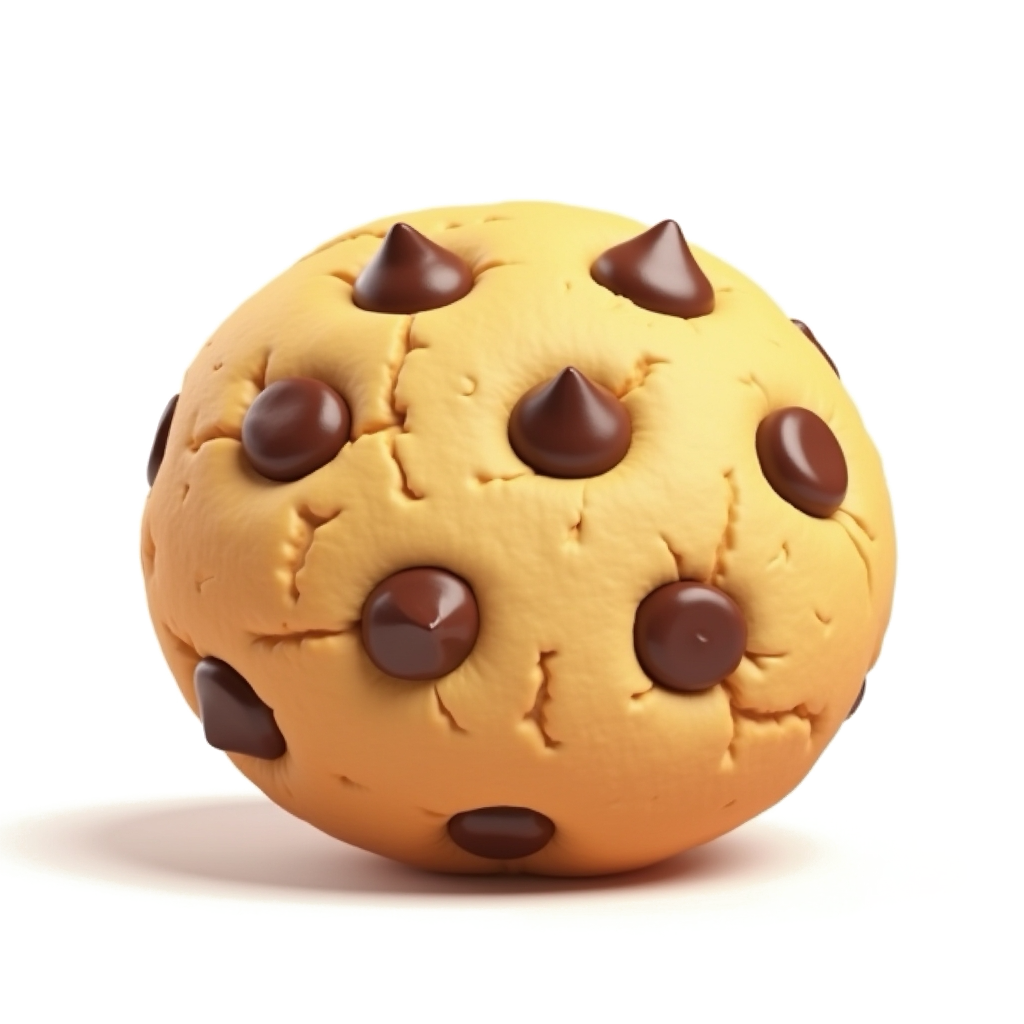
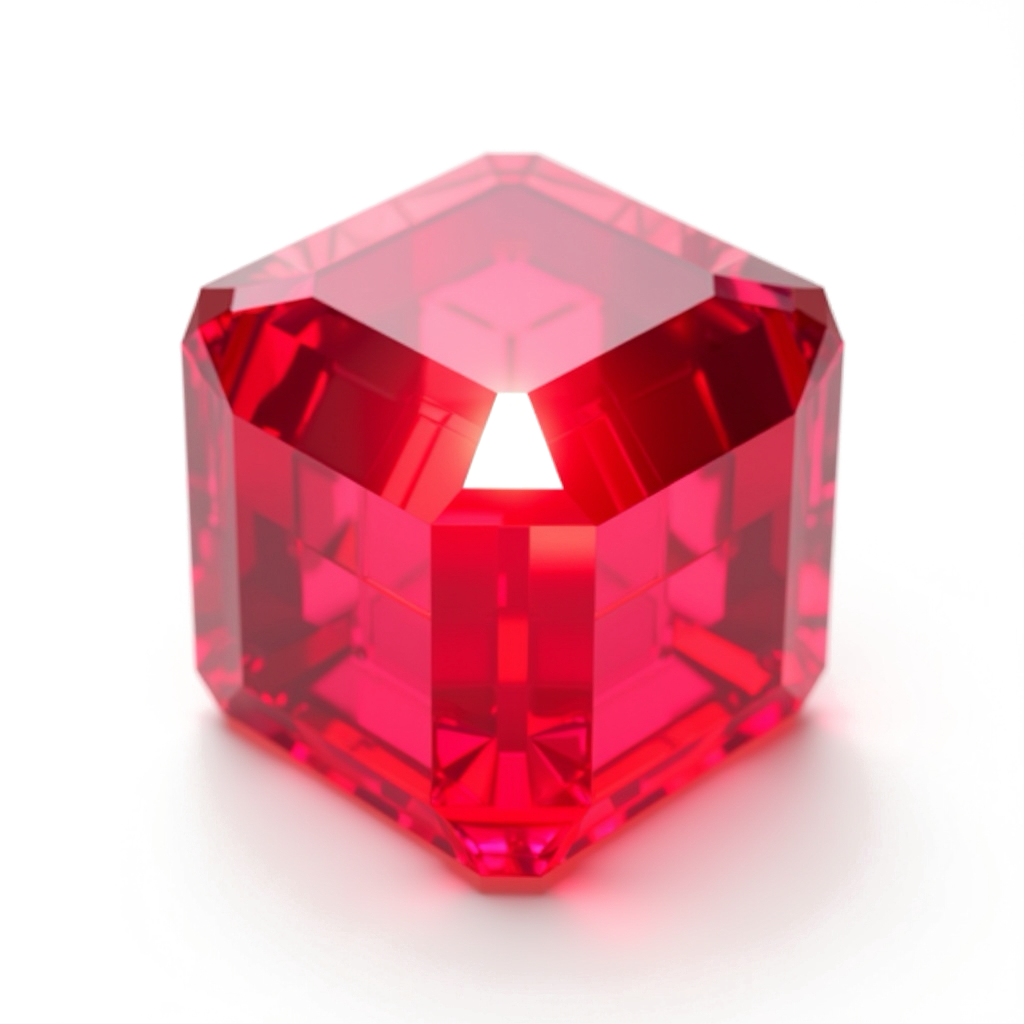
v0.3: Kristal Krallığı temasına geçiş
- Pastane teması kaldırıldı, kristal/mücevher dünyası geldi
- 6 yeni Leonardo AI kristal görseli:
  - 🍰 → Elmas (beyaz/şeffaf)
  - 🍪 → Yakut (kırmızı)
  - 🍓 → Zümrüt (yeşil)
  - 🍫 → Safir (mavi)
  - 🍦 → Ametist (mor)
  - 🍭 → Amber/Topaz (turuncu/altın)
- Hepsi kare şekil, 3D render, cam/cilalı malzeme
- Şeffaf arka plan (saf JS PNG şeffaflaştırıcı)
- Arka plan: derin mor-mavi-lacivert büyülü gradyan
- Tahta büyütüldü (640px max, ekranı neredeyse kaplıyor)
- Başlık: 'KRİSTAL KRALLIĞI' (parıltılı)
- Çerçeve: gümüş kenarlı mücevher kutusu görünümü
- Her kristal için kendi rengine özgü parıltı halkası
- Patlama parçacıkları kristal renkleriyle eşleşti
- Hedef metni Türkçeleşti: 'elmas topla' vs.
- Eski tatlı görselleri assets-yedek-tatlilar/ klasörüne yedeklendi

diff --git a/index.html b/index.html
@@ -3,7 +3,7 @@
 <head>
   <meta charset="UTF-8" />
   <meta name="viewport" content="width=device-width, initial-scale=1.0, user-scalable=no" />
-  <title>🍰 Pasta Şefi'nin Yükselişi</title>
+  <title>💎 Kristal Krallığı</title>
 
   <link rel="preconnect" href="https://fonts.googleapis.com" />
   <link rel="preconnect" href="https://fonts.gstatic.com" crossorigin />
@@ -25,18 +25,28 @@
     }
 
     /* Canlı, hareketli arka plan — 3 katmanlı radyal ışıklar */
+    html, body {
+      min-height: 100vh;
+      font-family: 'Fredoka', sans-serif;
+      color: #fff;
+      overflow: hidden;
+      user-select: none;
+      -webkit-tap-highlight-color: transparent;
+    }
+
+    /* Kristal krallığı arka planı — derin mavi-mor, büyülü ışıklar */
     body {
       background:
-        radial-gradient(circle at 20% 20%, rgba(255, 105, 180, 0.5) 0%, transparent 45%),
-        radial-gradient(circle at 80% 30%, rgba(138, 43, 226, 0.45) 0%, transparent 50%),
-        radial-gradient(circle at 50% 80%, rgba(255, 165, 0, 0.4) 0%, transparent 50%),
-        linear-gradient(135deg, #ff6ec7 0%, #a17ef5 35%, #6a5acd 70%, #ff69b4 100%);
+        radial-gradient(circle at 20% 20%, rgba(100, 180, 255, 0.35) 0%, transparent 45%),
+        radial-gradient(circle at 80% 30%, rgba(180, 100, 255, 0.4) 0%, transparent 50%),
+        radial-gradient(circle at 50% 90%, rgba(0, 200, 255, 0.3) 0%, transparent 50%),
+        linear-gradient(135deg, #1a1a4e 0%, #2d1b69 30%, #0f0f3d 60%, #1a0f3d 100%);
       background-size: 200% 200%;
-      animation: arkaplan-ak 18s ease infinite;
+      animation: arkaplan-ak 22s ease infinite;
       display: flex;
       flex-direction: column;
       align-items: center;
-      padding: 12px;
+      padding: 8px;
       min-height: 100vh;
       position: relative;
     }
@@ -67,29 +77,29 @@
     }
 
     /* ============================================
-       BAŞLIK — parlak, 3D
+       BAŞLIK — kristal parıltılı
        ============================================ */
     .baslik {
       font-family: 'Luckiest Guy', cursive;
-      font-size: clamp(32px, 7vw, 56px);
+      font-size: clamp(26px, 5.5vw, 44px);
       color: #fff;
       text-align: center;
-      margin: 10px 0 14px 0;
-      letter-spacing: 2px;
-      -webkit-text-stroke: 3px #c2185b;
+      margin: 6px 0 10px 0;
+      letter-spacing: 3px;
+      -webkit-text-stroke: 2px #4a2d8f;
       text-shadow:
-        0 0 20px rgba(255, 215, 0, 0.8),
-        3px 3px 0 #c2185b,
-        6px 6px 0 rgba(106, 90, 205, 0.6),
-        0 0 40px rgba(255, 105, 180, 0.9);
-      animation: baslik-nabiz 2s ease-in-out infinite;
+        0 0 25px rgba(100, 200, 255, 0.9),
+        2px 2px 0 #4a2d8f,
+        4px 4px 0 rgba(50, 30, 100, 0.6),
+        0 0 50px rgba(180, 100, 255, 1);
+      animation: baslik-nabiz 2.5s ease-in-out infinite;
       z-index: 5;
       position: relative;
     }
 
     @keyframes baslik-nabiz {
-      0%, 100% { transform: scale(1); filter: drop-shadow(0 0 20px rgba(255, 215, 0, 0.7)); }
-      50%      { transform: scale(1.03); filter: drop-shadow(0 0 35px rgba(255, 215, 0, 1)); }
+      0%, 100% { transform: scale(1); filter: drop-shadow(0 0 25px rgba(100, 200, 255, 0.8)); }
+      50%      { transform: scale(1.03); filter: drop-shadow(0 0 45px rgba(180, 100, 255, 1)); }
     }
 
     /* ============================================
@@ -109,18 +119,18 @@
     }
 
     .altin-kutu, .hedef-kutu {
-      background: linear-gradient(145deg, #fff8e1 0%, #ffd54f 50%, #ff8f00 100%);
-      border-radius: 22px;
-      padding: 12px 22px;
+      background: linear-gradient(145deg, #fff 0%, #a0c4ff 50%, #5a6dff 100%);
+      border-radius: 18px;
+      padding: 8px 16px;
       font-weight: 700;
-      font-size: 19px;
-      color: #5d2f00;
-      border: 4px solid #fff;
+      font-size: 16px;
+      color: #1a1a4e;
+      border: 3px solid #fff;
       box-shadow:
-        0 0 0 3px #ffa000,
-        0 8px 25px rgba(255, 143, 0, 0.5),
+        0 0 0 2px #5a6dff,
+        0 6px 20px rgba(90, 109, 255, 0.6),
         inset 0 2px 6px rgba(255, 255, 255, 0.9),
-        inset 0 -3px 6px rgba(180, 100, 0, 0.3);
+        inset 0 -3px 6px rgba(50, 70, 180, 0.3);
       position: relative;
       overflow: hidden;
     }
@@ -142,11 +152,11 @@
     }
 
     .altin-kutu {
-      color: #8b4513;
+      color: #1a1a4e;
       display: flex;
       align-items: center;
-      gap: 10px;
-      min-width: 140px;
+      gap: 8px;
+      min-width: 120px;
       z-index: 1;
     }
 
@@ -169,16 +179,16 @@
     }
 
     .hedef-kutu {
-      background: linear-gradient(145deg, #fff 0%, #f8bbd0 50%, #e91e63 100%);
-      color: #880e4f;
+      background: linear-gradient(145deg, #fff 0%, #e0b0ff 50%, #9b4dff 100%);
+      color: #3d1f7a;
       flex: 1;
-      min-width: 210px;
+      min-width: 180px;
       text-align: center;
       box-shadow:
-        0 0 0 3px #c2185b,
-        0 8px 25px rgba(233, 30, 99, 0.5),
+        0 0 0 2px #9b4dff,
+        0 6px 20px rgba(155, 77, 255, 0.6),
         inset 0 2px 6px rgba(255, 255, 255, 0.9),
-        inset 0 -3px 6px rgba(136, 14, 79, 0.3);
+        inset 0 -3px 6px rgba(60, 30, 120, 0.3);
     }
 
     .hedef-kutu .bolum {
@@ -195,35 +205,37 @@
        ============================================ */
     .tahta-kapsa {
       background:
-        radial-gradient(ellipse at top, #ffe082 0%, #ffb300 50%, #e65100 100%);
-      border-radius: 28px;
-      padding: 14px;
+        radial-gradient(ellipse at top, #c0c0ff 0%, #8e8ee8 50%, #4a4a9e 100%);
+      border-radius: 20px;
+      padding: 8px;
       box-shadow:
-        0 0 0 6px #6a1b9a,
-        0 0 0 10px #ffc107,
-        0 20px 60px rgba(106, 27, 154, 0.7),
-        inset 0 4px 10px rgba(255, 255, 255, 0.5),
-        inset 0 -6px 12px rgba(180, 60, 0, 0.4);
+        0 0 0 3px #6a5acd,
+        0 0 0 6px #c0c0ff,
+        0 0 0 8px #4a2d8f,
+        0 15px 50px rgba(100, 100, 255, 0.7),
+        inset 0 3px 8px rgba(255, 255, 255, 0.6),
+        inset 0 -5px 10px rgba(50, 30, 100, 0.4);
       position: relative;
       z-index: 5;
     }
 
     .tahta-ic {
       background:
-        radial-gradient(circle at 30% 30%, rgba(255, 255, 255, 0.15) 0%, transparent 50%),
-        linear-gradient(135deg, #4a148c 0%, #6a1b9a 50%, #311b92 100%);
-      border-radius: 18px;
-      padding: 8px;
-      box-shadow: inset 0 4px 12px rgba(0,0,0,0.5);
+        radial-gradient(circle at 30% 30%, rgba(150, 200, 255, 0.2) 0%, transparent 50%),
+        linear-gradient(135deg, #0f0f3d 0%, #1a0f5e 50%, #0a0a2a 100%);
+      border-radius: 14px;
+      padding: 4px;
+      box-shadow: inset 0 4px 12px rgba(0,0,0,0.7);
     }
 
     .tahta {
       display: grid;
       grid-template-columns: repeat(8, 1fr);
       grid-template-rows: repeat(8, 1fr);
-      gap: 4px;
-      width: min(86vw, 460px);
-      height: min(86vw, 460px);
+      gap: 2px;
+      /* Ekranı neredeyse tamamen kaplasın */
+      width: min(96vw, 640px);
+      height: min(96vw, 640px);
       position: relative;
     }
 
@@ -242,13 +254,19 @@
       background: transparent;
     }
 
-    /* Hücrenin altına, her tatlıya özgü renkli ışık halkası */
-    .hucre[data-tatli="🍰"] { filter: drop-shadow(0 0 10px rgba(255, 105, 180, 0.7)) drop-shadow(0 4px 6px rgba(0,0,0,0.4)); }
-    .hucre[data-tatli="🍪"] { filter: drop-shadow(0 0 10px rgba(200, 130, 50, 0.7)) drop-shadow(0 4px 6px rgba(0,0,0,0.4)); }
-    .hucre[data-tatli="🍓"] { filter: drop-shadow(0 0 10px rgba(255, 60, 60, 0.7)) drop-shadow(0 4px 6px rgba(0,0,0,0.4)); }
-    .hucre[data-tatli="🍫"] { filter: drop-shadow(0 0 10px rgba(120, 70, 40, 0.7)) drop-shadow(0 4px 6px rgba(0,0,0,0.4)); }
-    .hucre[data-tatli="🍦"] { filter: drop-shadow(0 0 10px rgba(100, 180, 255, 0.7)) drop-shadow(0 4px 6px rgba(0,0,0,0.4)); }
-    .hucre[data-tatli="🍭"] { filter: drop-shadow(0 0 10px rgba(200, 100, 255, 0.7)) drop-shadow(0 4px 6px rgba(0,0,0,0.4)); }
+    /* Her kristal için kendi rengine özgü parıltı halkası */
+    /* 🍰 = Elmas (beyaz/gümüş) */
+    .hucre[data-tatli="🍰"] { filter: drop-shadow(0 0 14px rgba(220, 240, 255, 0.9)) drop-shadow(0 4px 6px rgba(0,0,0,0.5)); }
+    /* 🍪 = Yakut (kırmızı) */
+    .hucre[data-tatli="🍪"] { filter: drop-shadow(0 0 14px rgba(255, 40, 80, 0.9)) drop-shadow(0 4px 6px rgba(0,0,0,0.5)); }
+    /* 🍓 = Zümrüt (yeşil) */
+    .hucre[data-tatli="🍓"] { filter: drop-shadow(0 0 14px rgba(60, 255, 140, 0.9)) drop-shadow(0 4px 6px rgba(0,0,0,0.5)); }
+    /* 🍫 = Safir (mavi) */
+    .hucre[data-tatli="🍫"] { filter: drop-shadow(0 0 14px rgba(60, 140, 255, 0.9)) drop-shadow(0 4px 6px rgba(0,0,0,0.5)); }
+    /* 🍦 = Ametist (mor) */
+    .hucre[data-tatli="🍦"] { filter: drop-shadow(0 0 14px rgba(200, 80, 255, 0.9)) drop-shadow(0 4px 6px rgba(0,0,0,0.5)); }
+    /* 🍭 = Amber (turuncu/altın) */
+    .hucre[data-tatli="🍭"] { filter: drop-shadow(0 0 14px rgba(255, 180, 40, 0.9)) drop-shadow(0 4px 6px rgba(0,0,0,0.5)); }
 
     /* Tatlı görselleri — artık şeffaf arka plan, hücreye rahat sığar */
     .hucre img, .hucre svg {
@@ -441,16 +459,16 @@
   <!-- Arka plan parçacıkları (JS ile doldurulacak) -->
   <div id="parcaciklarKatmani"></div>
 
-  <h1 class="baslik">🍰 Pasta Şefi 🍰</h1>
+  <h1 class="baslik">💎 KRİSTAL KRALLIĞI 💎</h1>
 
   <div class="ust-cubuk">
     <div class="altin-kutu">
-      <span class="emoji-buyuk">🪙</span>
+      <span class="emoji-buyuk">💰</span>
       <span class="altin-sayi" id="altinSayi">0</span>
     </div>
     <div class="hedef-kutu">
-      <span class="bolum">✨ Bölüm 1 ✨</span>
-      <span id="hedefMetni">Hedef: 30 🍰 topla</span>
+      <span class="bolum">✨ BÖLÜM 1 ✨</span>
+      <span id="hedefMetni">Hedef: 30 elmas topla</span>
     </div>
   </div>
 
@@ -466,7 +484,7 @@
     <button class="guc-btn"><span class="emoji">💣</span> Bomba <span class="sayi">1</span></button>
   </div>
 
-  <p class="not">💡 Komşu iki tatlıyı değiştir, 3 veya daha fazlasını yan yana getir!</p>
+  <p class="not">💎 Komşu iki kristali değiştir, 3 veya daha fazlasını yan yana getir!</p>
 
   <div class="combo-popup" id="comboPopup"></div>
 
@@ -479,7 +497,17 @@
     // ==========================================================
 
     const BOYUT = 8;
+    // Eski emoji anahtarları korundu — her biri artık bir kristal temsil ediyor
+    // 🍰 = Elmas, 🍪 = Yakut, 🍓 = Zümrüt, 🍫 = Safir, 🍦 = Ametist, 🍭 = Amber
     const TATLILAR = ['🍰', '🍪', '🍓', '🍫', '🍦', '🍭'];
+    const KRISTAL_ADLARI = {
+      '🍰': 'elmas',
+      '🍪': 'yakut',
+      '🍓': 'zümrüt',
+      '🍫': 'safir',
+      '🍦': 'ametist',
+      '🍭': 'amber'
+    };
     const HEDEF_TATLI = '🍰';
     const HEDEF_SAYI = 30;
     const PUAN_BASINA_ALTIN = 10;
@@ -720,14 +748,14 @@
     // Patlayan hücreden 8 yönde parçacık uç (renkli ışıltılar + yıldızlar)
     function patlamaParcaciklari(el, emoji) {
       const rect = el.getBoundingClientRect();
-      // Tatlıya göre parçacık rengi
+      // Her kristalın kendi rengi
       const renkler = {
-        '🍰': ['#ff69b4', '#ff1493', '#ffb6c1'],
-        '🍪': ['#d4a574', '#8b4513', '#ffc107'],
-        '🍓': ['#ff1744', '#c62828', '#ff8a80'],
-        '🍫': ['#5d4037', '#3e2723', '#8d6e63'],
-        '🍦': ['#81d4fa', '#0288d1', '#fff'],
-        '🍭': ['#ba68c8', '#6a1b9a', '#e1bee7']
+        '🍰': ['#ffffff', '#e3f2fd', '#b3e5fc'],     // elmas — beyaz/gümüş
+        '🍪': ['#ff1744', '#d50000', '#ff5252'],     // yakut — kırmızı
+        '🍓': ['#00e676', '#00c853', '#69f0ae'],     // zümrüt — yeşil
+        '🍫': ['#448aff', '#2962ff', '#82b1ff'],     // safir — mavi
+        '🍦': ['#e040fb', '#aa00ff', '#ea80fc'],     // ametist — mor
+        '🍭': ['#ff9100', '#ffab00', '#ffd54f']      // amber — turuncu/altın
       };
       const paletRenkleri = renkler[emoji] || ['#fff'];
       const semboller = ['✨', '⭐', '💫', '🌟'];
@@ -785,7 +813,8 @@
       if (toplananHedef >= HEDEF_SAYI) {
         hedefMetniEl.textContent = '🎉 BÖLÜM TAMAMLANDI! 🎉';
       } else {
-        hedefMetniEl.textContent = `Hedef: ${toplananHedef} / ${HEDEF_SAYI} ${HEDEF_TATLI} topla`;
+        const ad = KRISTAL_ADLARI[HEDEF_TATLI] || 'kristal';
+        hedefMetniEl.textContent = `${toplananHedef} / ${HEDEF_SAYI} ${ad} topla`;
       }
     }
 
